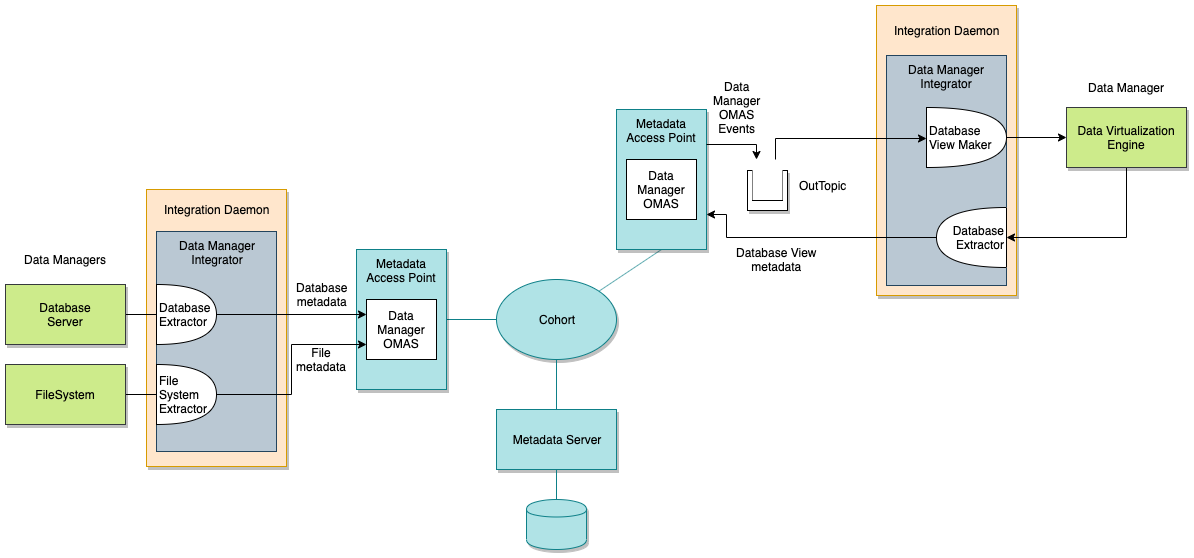
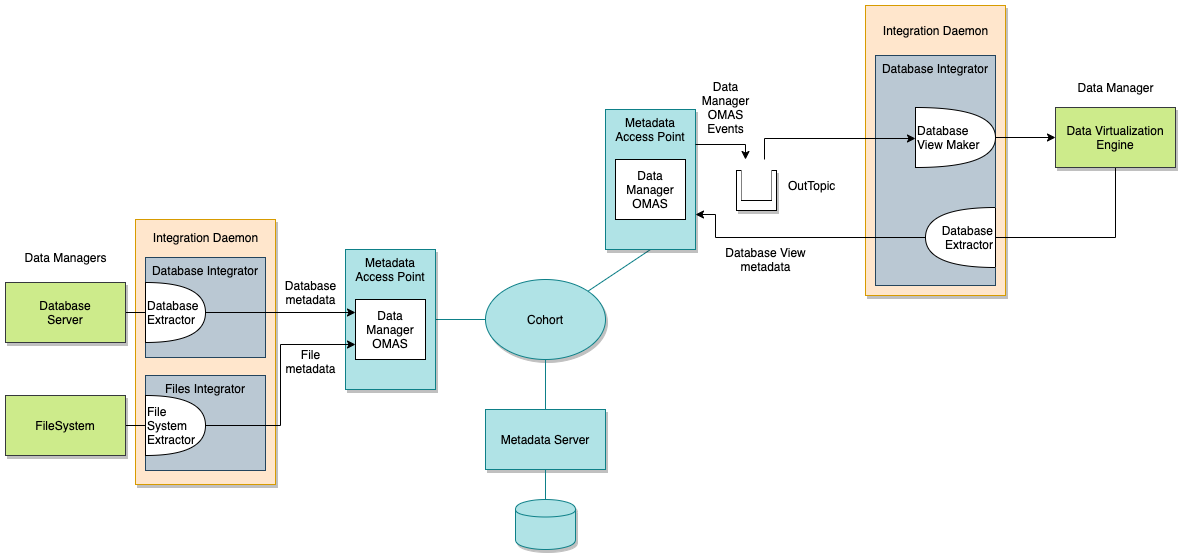
Omprove data manager solutions description

diff --git a/open-metadata-publication/website/solutions/data-manager-integration/README.md b/open-metadata-publication/website/solutions/data-manager-integration/README.md
@@ -18,23 +18,60 @@ In this solution we are going to cover:
 * automatic distribution of information about data assets to interested parties
 * automatic configuration of data managers based on the data assets in other data managers
 
-Figure 1 shows the set up to extract metadata from one or more data managers.
-It takes a data manager integration connector to interface with a specific data manager.  This is
-running in the [Database Integrator Open Metadata Integration Service (OMIS)](../../../../open-metadata-implementation/integration-services/database-integrator)
+Figure 1 shows the set up to extract metadata from one or more data managers and store it in a metadata server.
+It takes an [integration connector](../../../../open-metadata-implementation/governance-servers/integration-daemon-services/docs/integration-connector.md)
+to interface with a specific data manager.  This is
+running in an appropriate [Open Metadata Integration Service (OMIS)](../../../../open-metadata-implementation/integration-services)
 hosted in an [Integration Daemon](../../../../open-metadata-implementation/admin-services/docs/concepts/integration-daemon.md).
 
+The OMIS to use for databases and database virtualization platforms is the 
+[Database Integrator OMIS](../../../../open-metadata-implementation/integration-services/database-integrator).
+The OMIS to use for file systems and file managers is the 
+[Files Integrator OMIS](../../../../open-metadata-implementation/integration-services/files-integrator).
 
-![Figure 1](data-manager-integration-metadata-extraction.png)
-> **Figure 1:** Set up for metadata extraction from data managers
+Integration connector `Database Extractor` is monitoring for schema changes in the Database Server
+and cataloguing them in open metadata through the Database Integrator OMIS.  The Database Integrator OMIS
+calls the [Data Manager OMAS](../../../../open-metadata-implementation/access-services/data-manager) which stores the open metadata in its local repository.
 
-![Figure 2](data-manager-integration-metadata-distribution.png)
-> **Figure 2:** Set up for distribution of metadata from data managers
+Similarly, integration connector `File System Extractor` is monitoring for changes to files on the file system and
+cataloguing them in open metadata through the Files Integrator OMIS and the Data Manager OMAS.
 
-![Figure 3](data-manager-integration-metadata-synchronization.png)
+![Figure 1](data-manager-integration-metadata-extraction.png#pagewidth)
+> **Figure 1:** Set up for metadata extraction from data managers and stored in a local repository
+
+Figure 2 shows a similar set up except that the resulting metadata is being stored in a remote metadata
+repository connected via a [cohort](../../../../open-metadata-implementation/admin-services/docs/concepts/cohort-member.md).
+
+![Figure 2](data-manager-integration-metadata-extraction-remote.png#pagewidth)
+> **Figure 2:** Set up for metadata extraction from data managers and stored in a remote repository
+
+Figure 3 adds a new integration connector (called `Data Asset Distributor`) that listens for events
+from the Data Manager OMAS about new or updated data assets being catalogued in
+any repository in the cohort.  This `Data Asset Distributor` can distribute this information to other processes.
+
+Note, `Data Asset Distributor` could be deployed in the same integration daemon as `Database Extractor`
+and `File System Extractor`.  It is show in a different integration daemon for the sake of clarity in the diagram.
+
+![Figure 3](data-manager-integration-metadata-distribution.png#pagewidth)
 > **Figure 3:** Set up for distribution of metadata from data managers
 
+Figure 4 shows two integration connectors that are maintaining database views in a Data Virtualization Engine.
+`Database View Maker` is listening for new databases and schema changes and automatically configuring views over
+these data sources and the second copy of `Database Extractor` is detecting the schema changes in the Data
+Data Virtualization Engine and is cataloguing them in open metadata.
+
+It is possible for `Database View Maker` to create the metadata for the views that it is creating.
+However the approach shown in Figure 4 has the advantage that all views created in the Data Virtualization Engine
+are catalogued rather than just the ones created by `Database View Maker`.
+
+![Figure 4](data-manager-integration-metadata-synchronization.png#pagewidth)
+> **Figure 4:** Set up for distribution of metadata from data managers
+
 ----
-* Return to the [Egeria solutions](..)
+
+* Link to the [Connector Catalog](../../connector-catalog) to understand the integration connectors supplied by Egeria
+* Return to the [Egeria solutions](..) descriptions
+
 ----
 License: [CC BY 4.0](https://creativecommons.org/licenses/by/4.0/),
 Copyright Contributors to the ODPi Egeria project.
